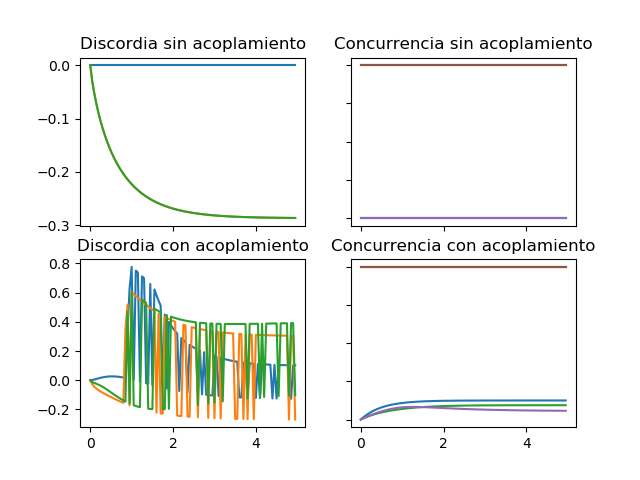
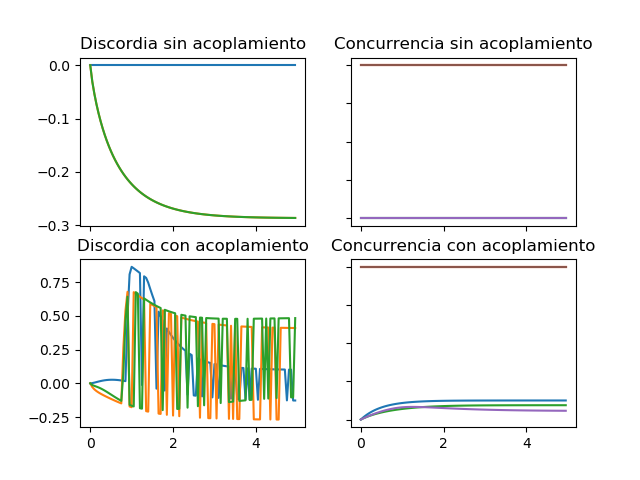
Cambio generado con script

diff --git a/master.py b/master.py
@@ -27,7 +27,7 @@ def log_2(x):
 #Definir entropia condicional para minimizar
 def entropy_cond(a,b,t1,t2):
     e=0    
-    e = a*(-((1-t1)/2)*log_2((1-t1)/2)-((1+t1)/2)*log_2((1+t1)/2))+ b*(-((1+t2)/2)*log_2((1+t2)/2)-((1+t2)/2)*log_2((1+t2)/2))
+    e = a*(-((1-t1)/2)*log_2((1-t1)/2)-((1+t1)/2)*log_2((1+t1)/2))+ b*(-((1-t2)/2)*log_2((1-t2)/2)-((1+t2)/2)*log_2((1+t2)/2))
     return e
    
 #Definir funcion que calcula ecuaciones maestras y evaluar si funciona fuera
